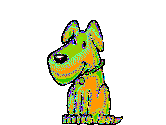
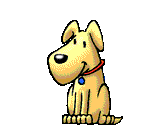
Greetings Workshop actors: colours from rocky-97 (palette-from, bentwire A-CONV-7) instead of the Office palette; regenerated; gallery images; CHANGELOG 2026.11.2

Changed region(s): [[0.2711, 0.168, 0.753, 1.0]]

diff --git a/README.md b/README.md
@@ -206,13 +206,14 @@ BENTWIRE_SOURCES=<dir>[:<dir>...] BENTWIRE_BIN=<dir with bentwire-convert> ./reg
   Without it, `bentwire-convert` is taken from `PATH`.
 
 The script converts every source into `<id>.bwc` (per-id options in `options.txt`), reads
-the Office palette for bitmap actors from `MSO97.DLL` (Office 97), rasterises vector actors
-with bentwire's WMF rasteriser (1x and 2x, aliased), extracts the balloon theme from
-`OBALLOON.DLL` 10.0.2607 (Office XP), and writes `CONTENTS.md`. The output is
-byte-identical on every run. Each `.bwc` names its source file and its SHA-256 prefix in
-`[source]`. `pack.toml` is not generated: besides the pack metadata it holds the display
-labels where the files cannot tell (product qualifiers such as "third-party", and names
-such as Saeko-sensei and Tutor).
+the Office palette for bitmap actors from `MSO97.DLL` (Office 97; the two Greetings
+Workshop actors, whose own palette is in no source file, take their colours from `rocky-97`,
+which shows the same pictures), rasterises vector actors with bentwire's WMF rasteriser
+(1x and 2x, aliased), extracts the balloon theme from `OBALLOON.DLL` 10.0.2607 (Office XP),
+and writes `CONTENTS.md`. The output is byte-identical on every run. Each `.bwc` names its
+source file and its SHA-256 prefix in `[source]`. `pack.toml` is not generated: besides the
+pack metadata it holds the display labels where the files cannot tell (product qualifiers
+such as "third-party", and names such as Saeko-sensei and Tutor).
 
 ## Screenshots and GIFs
 

diff --git a/CHANGELOG.md b/CHANGELOG.md
@@ -8,9 +8,17 @@ All notable changes to the classics pack are documented here. The format follows
 
 ## [2026.11.2] - 2026-11-12
 
-Requires bentwire 0.1.0 or later. 61 characters, unchanged (regenerated byte-identically).
-bentwire 0.1.1 loads this pack as before; the new labels show with the bentwire release
-after 0.1.1.
+Requires bentwire 0.1.0 or later. 61 characters; all but the two Greetings Workshop actors
+are unchanged (regenerated byte-identically). bentwire 0.1.1 loads this pack as before; the
+new labels show with the bentwire release after 0.1.1.
+
+### Fixed
+
+- `rocky-greetings-act` and `rocky-earlygreetings-act` showed coloured noise: they were
+  converted with the Office palette, but they index a Greetings Workshop palette that no
+  source file carries. Their colours now come from `rocky-97`, which shows the same
+  pictures in the Office palette (`palette-from` in `options.txt`, bentwire A-CONV-7). The
+  colours are those of the Office variant, not the lost original palette.
 
 ### Changed
 
